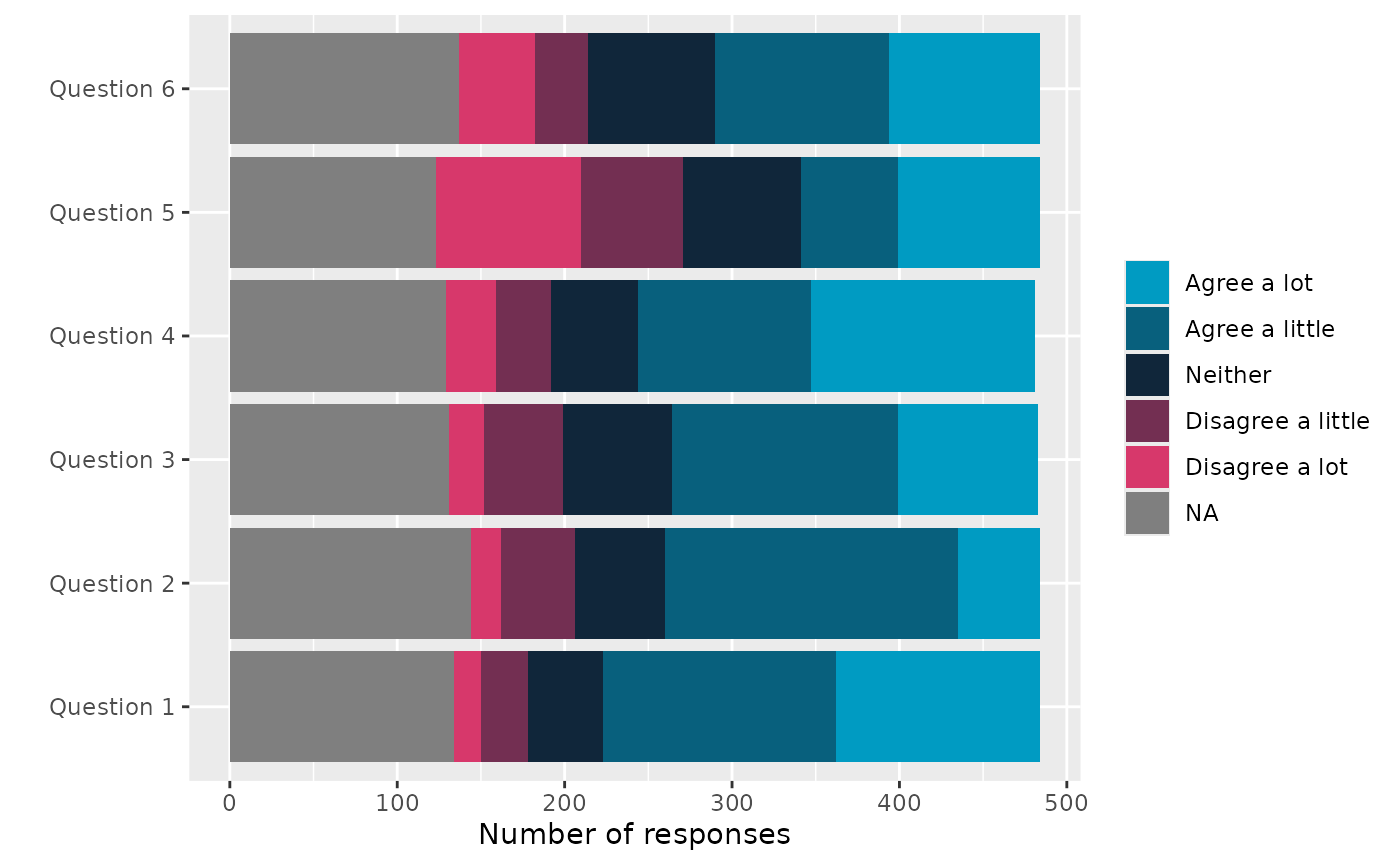
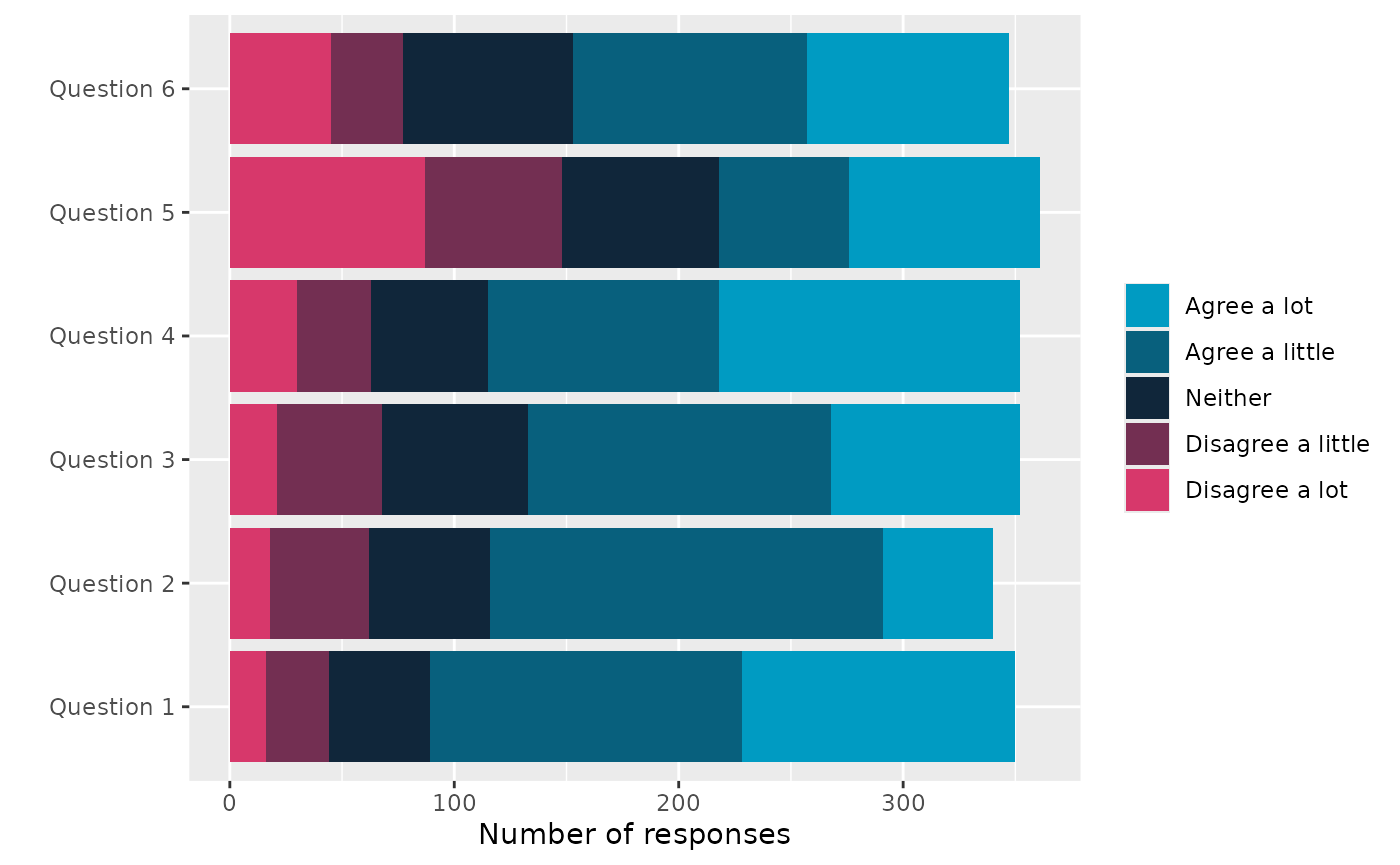
Deploying to gh-pages from @ Jake-Powell/OMESurvey@f03f40c4dfe7805c6880ab750420d0e18fba7e67 🚀

diff --git a/articles/Create-survey-figures.html b/articles/Create-survey-figures.html
@@ -76,13 +76,19 @@
 <p><em>This vignette provides examples for the simple creation of survey
 plots across different output types</em></p>
 <div class="sourceCode" id="cb2"><pre class="downlit sourceCode r">
-<code class="sourceCode R"><span><span class="va">data</span> <span class="op">=</span> <span class="fu">OMESurvey</span><span class="fu">::</span><span class="va"><a href="../reference/survey_example.html">survey_example</a></span></span></code></pre></div>
+<code class="sourceCode R"><span><span class="va">data</span> <span class="op">=</span> <span class="fu">OMESurvey</span><span class="fu">::</span><span class="va"><a href="../reference/survey_example.html">survey_example</a></span></span>
+<span></span>
+<span><span class="co"># Clean such that "N-A" values equal NA, fix any casing issues</span></span>
+<span><span class="kw">for</span><span class="op">(</span><span class="va">i</span> <span class="kw">in</span> <span class="fl">1</span><span class="op">:</span><span class="fu"><a href="https://rdrr.io/r/base/nrow.html" class="external-link">ncol</a></span><span class="op">(</span><span class="va">data</span><span class="op">)</span><span class="op">)</span><span class="op">{</span></span>
+<span>  <span class="va">data</span><span class="op">[</span>,<span class="va">i</span><span class="op">]</span><span class="op">[</span><span class="va">data</span><span class="op">[</span>,<span class="va">i</span><span class="op">]</span> <span class="op">==</span> <span class="st">'N-A'</span><span class="op">]</span> <span class="op">=</span> <span class="cn">NA</span></span>
+<span>  <span class="va">data</span><span class="op">[</span>,<span class="va">i</span><span class="op">]</span> <span class="op">=</span> <span class="va">data</span><span class="op">[</span>,<span class="va">i</span><span class="op">]</span> <span class="op">|&gt;</span> <span class="fu">stringr</span><span class="fu">::</span><span class="fu"><a href="https://stringr.tidyverse.org/reference/case.html" class="external-link">str_to_sentence</a></span><span class="op">(</span><span class="op">)</span> </span>
+<span><span class="op">}</span></span></code></pre></div>
 <div class="section level2">
 <h2 id="number-of-responses-across-questions-in-a-theme">Number of responses across questions in a theme<a class="anchor" aria-label="anchor" href="#number-of-responses-across-questions-in-a-theme"></a>
 </h2>
 <p>In this case we can use <code><a href="../reference/plot_theme.html">plot_theme()</a></code> to create a
 horizontal bar chart. Depending on the “Kind” argument we can create a
-formatted data frame, a ggplot or a plotly graph.</p>
+ggplot, a plotly figure or a formatted data frame.</p>
 <div class="section level3 tabset">
 <h3 class="tabset" id="section"></h3>
 
@@ -105,7 +111,7 @@ formatted data frame, a ggplot or a plotly graph.</p>
 <div class="sourceCode" id="cb4"><pre class="downlit sourceCode r">
 <code class="sourceCode R"><span><span class="fu">OMESurvey</span><span class="fu">::</span><span class="fu"><a href="../reference/plot_theme.html">plot_theme</a></span><span class="op">(</span><span class="va">data</span>, theme <span class="op">=</span> <span class="st">'Theme_1'</span>, kind <span class="op">=</span> <span class="st">'plotly'</span><span class="op">)</span></span></code></pre></div>
 <div class="plotly html-widget html-fill-item" id="htmlwidget-ac96cb3ee4656e2e9ec3" style="width:700px;height:432.632880098888px;"></div>
-<script type="application/json" data-for="htmlwidget-ac96cb3ee4656e2e9ec3">{"x":{"visdat":{"1865381057f2":["function () ","plotlyVisDat"]},"cur_data":"1865381057f2","attrs":{"1865381057f2":{"y":{},"x":{},"orientation":"h","hovertext":{},"hoverinfo":"text","color":{},"colors":["#009BC2","#08607D","#10263A","#732F52","#D7386B"],"alpha_stroke":1,"sizes":[10,100],"spans":[1,20],"type":"bar"}},"layout":{"margin":{"b":40,"l":60,"t":25,"r":10},"xaxis":{"domain":[0,1],"automargin":true,"title":"Number of responses"},"yaxis":{"domain":[0,1],"automargin":true,"title":"","type":"category","categoryorder":"array","categoryarray":["Question 1","Question 2","Question 3","Question 4","Question 5","Question 6"]},"barmode":"stack","hovermode":"closest","showlegend":true},"source":"A","config":{"modeBarButtonsToAdd":["hoverclosest","hovercompare"],"showSendToCloud":false},"data":[{"y":["Question 1","Question 2","Question 3","Question 4","Question 5","Question 6"],"x":[122,49,84,134,85,90],"orientation":"h","hovertext":["Agree a lot<br>122 Responses<br>25.2%","Agree a lot<br>49 Responses<br>10.1%","Agree a lot<br>84 Responses<br>17.4%","Agree a lot<br>134 Responses<br>27.9%","Agree a lot<br>85 Responses<br>17.6%","Agree a lot<br>90 Responses<br>18.6%"],"hoverinfo":["text","text","text","text","text","text"],"type":"bar","name":"Agree a lot","marker":{"color":"rgba(0,155,194,1)","line":{"color":"rgba(0,155,194,1)"}},"textfont":{"color":"rgba(0,155,194,1)"},"error_y":{"color":"rgba(0,155,194,1)"},"error_x":{"color":"rgba(0,155,194,1)"},"xaxis":"x","yaxis":"y","frame":null},{"y":["Question 1","Question 2","Question 3","Question 4","Question 5","Question 6"],"x":[139,175,135,103,58,104],"orientation":"h","hovertext":["Agree a little<br>139 Responses<br>28.7%","Agree a little<br>175 Responses<br>36.2%","Agree a little<br>135 Responses<br>28%","Agree a little<br>103 Responses<br>21.4%","Agree a little<br>58 Responses<br>12%","Agree a little<br>104 Responses<br>21.5%"],"hoverinfo":["text","text","text","text","text","text"],"type":"bar","name":"Agree a little","marker":{"color":"rgba(8,96,125,1)","line":{"color":"rgba(8,96,125,1)"}},"textfont":{"color":"rgba(8,96,125,1)"},"error_y":{"color":"rgba(8,96,125,1)"},"error_x":{"color":"rgba(8,96,125,1)"},"xaxis":"x","yaxis":"y","frame":null},{"y":["Question 1","Question 2","Question 3","Question 4","Question 5","Question 6"],"x":[45,54,65,52,70,76],"orientation":"h","hovertext":["Neither<br>45 Responses<br>9.3%","Neither<br>54 Responses<br>11.2%","Neither<br>65 Responses<br>13.5%","Neither<br>52 Responses<br>10.8%","Neither<br>70 Responses<br>14.5%","Neither<br>76 Responses<br>15.7%"],"hoverinfo":["text","text","text","text","text","text"],"type":"bar","name":"Neither","marker":{"color":"rgba(16,38,58,1)","line":{"color":"rgba(16,38,58,1)"}},"textfont":{"color":"rgba(16,38,58,1)"},"error_y":{"color":"rgba(16,38,58,1)"},"error_x":{"color":"rgba(16,38,58,1)"},"xaxis":"x","yaxis":"y","frame":null},{"y":["Question 1","Question 2","Question 3","Question 4","Question 5","Question 6"],"x":[28,44,47,33,61,32],"orientation":"h","hovertext":["Disagree a little<br>28 Responses<br>5.8%","Disagree a little<br>44 Responses<br>9.1%","Disagree a little<br>47 Responses<br>9.7%","Disagree a little<br>33 Responses<br>6.9%","Disagree a little<br>61 Responses<br>12.6%","Disagree a little<br>32 Responses<br>6.6%"],"hoverinfo":["text","text","text","text","text","text"],"type":"bar","name":"Disagree a little","marker":{"color":"rgba(115,47,82,1)","line":{"color":"rgba(115,47,82,1)"}},"textfont":{"color":"rgba(115,47,82,1)"},"error_y":{"color":"rgba(115,47,82,1)"},"error_x":{"color":"rgba(115,47,82,1)"},"xaxis":"x","yaxis":"y","frame":null},{"y":["Question 1","Question 2","Question 3","Question 4","Question 5","Question 6"],"x":[16,18,21,30,87,45],"orientation":"h","hovertext":["Disagree a lot<br>16 Responses<br>3.3%","Disagree a lot<br>18 Responses<br>3.7%","Disagree a lot<br>21 Responses<br>4.3%","Disagree a lot<br>30 Responses<br>6.2%","Disagree a lot<br>87 Responses<br>18%","Disagree a lot<br>45 Responses<br>9.3%"],"hoverinfo":["text","text","text","text","text","text"],"type":"bar","name":"Disagree a lot","marker":{"color":"rgba(215,56,107,1)","line":{"color":"rgba(215,56,107,1)"}},"textfont":{"color":"rgba(215,56,107,1)"},"error_y":{"color":"rgba(215,56,107,1)"},"error_x":{"color":"rgba(215,56,107,1)"},"xaxis":"x","yaxis":"y","frame":null}],"highlight":{"on":"plotly_click","persistent":false,"dynamic":false,"selectize":false,"opacityDim":0.20000000000000001,"selected":{"opacity":1},"debounce":0},"shinyEvents":["plotly_hover","plotly_click","plotly_selected","plotly_relayout","plotly_brushed","plotly_brushing","plotly_clickannotation","plotly_doubleclick","plotly_deselect","plotly_afterplot","plotly_sunburstclick"],"base_url":"https://plot.ly"},"evals":[],"jsHooks":[]}</script>
+<script type="application/json" data-for="htmlwidget-ac96cb3ee4656e2e9ec3">{"x":{"visdat":{"180e7d63edd2":["function () ","plotlyVisDat"]},"cur_data":"180e7d63edd2","attrs":{"180e7d63edd2":{"y":{},"x":{},"orientation":"h","hovertext":{},"hoverinfo":"text","color":{},"colors":["#009BC2","#08607D","#10263A","#732F52","#D7386B"],"alpha_stroke":1,"sizes":[10,100],"spans":[1,20],"type":"bar"}},"layout":{"margin":{"b":40,"l":60,"t":25,"r":10},"xaxis":{"domain":[0,1],"automargin":true,"title":"Number of responses"},"yaxis":{"domain":[0,1],"automargin":true,"title":"","type":"category","categoryorder":"array","categoryarray":["Question 1","Question 2","Question 3","Question 4","Question 5","Question 6"]},"barmode":"stack","hovermode":"closest","showlegend":true},"source":"A","config":{"modeBarButtonsToAdd":["hoverclosest","hovercompare"],"showSendToCloud":false},"data":[{"y":["Question 1","Question 2","Question 3","Question 4","Question 5","Question 6"],"x":[122,49,84,134,85,90],"orientation":"h","hovertext":["Agree a lot<br>122 Responses<br>34.9%","Agree a lot<br>49 Responses<br>14.4%","Agree a lot<br>84 Responses<br>23.9%","Agree a lot<br>134 Responses<br>38.1%","Agree a lot<br>85 Responses<br>23.5%","Agree a lot<br>90 Responses<br>25.9%"],"hoverinfo":["text","text","text","text","text","text"],"type":"bar","name":"Agree a lot","marker":{"color":"rgba(0,155,194,1)","line":{"color":"rgba(0,155,194,1)"}},"textfont":{"color":"rgba(0,155,194,1)"},"error_y":{"color":"rgba(0,155,194,1)"},"error_x":{"color":"rgba(0,155,194,1)"},"xaxis":"x","yaxis":"y","frame":null},{"y":["Question 1","Question 2","Question 3","Question 4","Question 5","Question 6"],"x":[139,175,135,103,58,104],"orientation":"h","hovertext":["Agree a little<br>139 Responses<br>39.7%","Agree a little<br>175 Responses<br>51.5%","Agree a little<br>135 Responses<br>38.4%","Agree a little<br>103 Responses<br>29.3%","Agree a little<br>58 Responses<br>16.1%","Agree a little<br>104 Responses<br>30%"],"hoverinfo":["text","text","text","text","text","text"],"type":"bar","name":"Agree a little","marker":{"color":"rgba(8,96,125,1)","line":{"color":"rgba(8,96,125,1)"}},"textfont":{"color":"rgba(8,96,125,1)"},"error_y":{"color":"rgba(8,96,125,1)"},"error_x":{"color":"rgba(8,96,125,1)"},"xaxis":"x","yaxis":"y","frame":null},{"y":["Question 1","Question 2","Question 3","Question 4","Question 5","Question 6"],"x":[45,54,65,52,70,76],"orientation":"h","hovertext":["Neither<br>45 Responses<br>12.9%","Neither<br>54 Responses<br>15.9%","Neither<br>65 Responses<br>18.5%","Neither<br>52 Responses<br>14.8%","Neither<br>70 Responses<br>19.4%","Neither<br>76 Responses<br>21.9%"],"hoverinfo":["text","text","text","text","text","text"],"type":"bar","name":"Neither","marker":{"color":"rgba(16,38,58,1)","line":{"color":"rgba(16,38,58,1)"}},"textfont":{"color":"rgba(16,38,58,1)"},"error_y":{"color":"rgba(16,38,58,1)"},"error_x":{"color":"rgba(16,38,58,1)"},"xaxis":"x","yaxis":"y","frame":null},{"y":["Question 1","Question 2","Question 3","Question 4","Question 5","Question 6"],"x":[28,44,47,33,61,32],"orientation":"h","hovertext":["Disagree a little<br>28 Responses<br>8%","Disagree a little<br>44 Responses<br>12.9%","Disagree a little<br>47 Responses<br>13.4%","Disagree a little<br>33 Responses<br>9.4%","Disagree a little<br>61 Responses<br>16.9%","Disagree a little<br>32 Responses<br>9.2%"],"hoverinfo":["text","text","text","text","text","text"],"type":"bar","name":"Disagree a little","marker":{"color":"rgba(115,47,82,1)","line":{"color":"rgba(115,47,82,1)"}},"textfont":{"color":"rgba(115,47,82,1)"},"error_y":{"color":"rgba(115,47,82,1)"},"error_x":{"color":"rgba(115,47,82,1)"},"xaxis":"x","yaxis":"y","frame":null},{"y":["Question 1","Question 2","Question 3","Question 4","Question 5","Question 6"],"x":[16,18,21,30,87,45],"orientation":"h","hovertext":["Disagree a lot<br>16 Responses<br>4.6%","Disagree a lot<br>18 Responses<br>5.3%","Disagree a lot<br>21 Responses<br>6%","Disagree a lot<br>30 Responses<br>8.5%","Disagree a lot<br>87 Responses<br>24.1%","Disagree a lot<br>45 Responses<br>13%"],"hoverinfo":["text","text","text","text","text","text"],"type":"bar","name":"Disagree a lot","marker":{"color":"rgba(215,56,107,1)","line":{"color":"rgba(215,56,107,1)"}},"textfont":{"color":"rgba(215,56,107,1)"},"error_y":{"color":"rgba(215,56,107,1)"},"error_x":{"color":"rgba(215,56,107,1)"},"xaxis":"x","yaxis":"y","frame":null}],"highlight":{"on":"plotly_click","persistent":false,"dynamic":false,"selectize":false,"opacityDim":0.20000000000000001,"selected":{"opacity":1},"debounce":0},"shinyEvents":["plotly_hover","plotly_click","plotly_selected","plotly_relayout","plotly_brushed","plotly_brushing","plotly_clickannotation","plotly_doubleclick","plotly_deselect","plotly_afterplot","plotly_sunburstclick"],"base_url":"https://plot.ly"},"evals":[],"jsHooks":[]}</script>
 </div>
 <div class="tab-pane" id="data-frame" role="tabpanel" aria-labelledby="data-frame-tab">
 
@@ -119,13 +125,20 @@ formatted data frame, a ggplot or a plotly graph.</p>
 <span>                                 paging<span class="op">=</span><span class="cn">FALSE</span>,</span>
 <span>                                 ordering<span class="op">=</span><span class="cn">F</span><span class="op">)</span><span class="op">)</span></span></code></pre></div>
 <div class="datatables html-widget html-fill-item" id="htmlwidget-e5c8c404fe174e4c81bd" style="width:100%;height:auto;"></div>
-<script type="application/json" data-for="htmlwidget-e5c8c404fe174e4c81bd">{"x":{"filter":"none","vertical":false,"extensions":["Buttons"],"data":[["Question 1","Question 1","Question 1","Question 1","Question 1","Question 1","Question 2","Question 2","Question 2","Question 2","Question 2","Question 2","Question 3","Question 3","Question 3","Question 3","Question 3","Question 3","Question 4","Question 4","Question 4","Question 4","Question 4","Question 4","Question 5","Question 5","Question 5","Question 5","Question 5","Question 5","Question 6","Question 6","Question 6","Question 6","Question 6","Question 6"],["Agree a little","Agree a lot","Disagree a little","Disagree a lot",null,"Neither","Agree a little","Agree a lot","Disagree a little","Disagree a lot",null,"Neither","Agree a little","Agree a lot","Disagree a little","Disagree a lot",null,"Neither","Agree a little","Agree a lot","Disagree a little","Disagree a lot",null,"Neither","Agree a little","Agree a lot","Disagree a little","Disagree a lot",null,"Neither","Agree a little","Agree a lot","Disagree a little","Disagree a lot",null,"Neither"],[139,122,28,16,134,45,175,49,44,18,144,54,135,84,47,21,131,65,103,134,33,30,129,52,58,85,61,87,123,70,104,90,32,45,137,76],[28.71900826446281,25.20661157024793,5.785123966942149,3.305785123966942,27.68595041322314,9.297520661157025,36.15702479338843,10.12396694214876,9.090909090909092,3.71900826446281,29.75206611570248,11.15702479338843,27.95031055900621,17.39130434782609,9.730848861283643,4.347826086956522,27.12215320910973,13.45755693581781,21.41372141372142,27.85862785862786,6.860706860706861,6.237006237006238,26.81912681912682,10.81081081081081,11.98347107438017,17.56198347107438,12.60330578512397,17.97520661157025,25.41322314049587,14.46280991735537,21.48760330578513,18.59504132231405,6.611570247933884,9.297520661157025,28.30578512396694,15.70247933884298]],"container":"<table class=\"display\">\n  <thead>\n    <tr>\n      <th>question<\/th>\n      <th>answer<\/th>\n      <th>count<\/th>\n      <th>percent<\/th>\n    <\/tr>\n  <\/thead>\n<\/table>","options":{"scrollY":300,"dom":"Bt","buttons":["copy","csv","excel","pdf"],"paging":false,"ordering":false,"columnDefs":[{"className":"dt-right","targets":[2,3]},{"name":"question","targets":0},{"name":"answer","targets":1},{"name":"count","targets":2},{"name":"percent","targets":3}],"order":[],"autoWidth":false,"orderClasses":false}},"evals":[],"jsHooks":[]}</script>
+<script type="application/json" data-for="htmlwidget-e5c8c404fe174e4c81bd">{"x":{"filter":"none","vertical":false,"extensions":["Buttons"],"data":[["Question 1","Question 1","Question 1","Question 1","Question 1","Question 2","Question 2","Question 2","Question 2","Question 2","Question 3","Question 3","Question 3","Question 3","Question 3","Question 4","Question 4","Question 4","Question 4","Question 4","Question 5","Question 5","Question 5","Question 5","Question 5","Question 6","Question 6","Question 6","Question 6","Question 6"],["Agree a little","Agree a lot","Disagree a little","Disagree a lot","Neither","Agree a little","Agree a lot","Disagree a little","Disagree a lot","Neither","Agree a little","Agree a lot","Disagree a little","Disagree a lot","Neither","Agree a little","Agree a lot","Disagree a little","Disagree a lot","Neither","Agree a little","Agree a lot","Disagree a little","Disagree a lot","Neither","Agree a little","Agree a lot","Disagree a little","Disagree a lot","Neither"],[139,122,28,16,45,175,49,44,18,54,135,84,47,21,65,103,134,33,30,52,58,85,61,87,70,104,90,32,45,76],[39.71428571428572,34.85714285714286,8,4.571428571428571,12.85714285714286,51.47058823529412,14.41176470588235,12.94117647058824,5.294117647058823,15.88235294117647,38.35227272727273,23.86363636363636,13.35227272727273,5.965909090909091,18.46590909090909,29.26136363636364,38.06818181818182,9.375,8.522727272727272,14.77272727272727,16.06648199445983,23.54570637119114,16.89750692520776,24.09972299168975,19.39058171745152,29.97118155619597,25.93659942363112,9.221902017291066,12.96829971181556,21.90201729106628]],"container":"<table class=\"display\">\n  <thead>\n    <tr>\n      <th>question<\/th>\n      <th>answer<\/th>\n      <th>count<\/th>\n      <th>percent<\/th>\n    <\/tr>\n  <\/thead>\n<\/table>","options":{"scrollY":300,"dom":"Bt","buttons":["copy","csv","excel","pdf"],"paging":false,"ordering":false,"columnDefs":[{"className":"dt-right","targets":[2,3]},{"name":"question","targets":0},{"name":"answer","targets":1},{"name":"count","targets":2},{"name":"percent","targets":3}],"order":[],"autoWidth":false,"orderClasses":false}},"evals":[],"jsHooks":[]}</script>
 </div>
 </div>
 </div>
 <div class="section level3 unnumbered">
 <h3 class="unnumbered" id="section-1"></h3>
-<hr>
+<p>Note that here we use default
+<code>survey_values = OMESurvey::survey_values</code> is used to find
+the expected values of the survey questions and the order to show the
+answers in the legend. For custom survey values you can change the
+<code>survey_values</code>. The function uses colours from
+<code><a href="../reference/get_OME_colours.html">OMESurvey::get_OME_colours()</a></code>, if other colours are desired
+use ‘+’/‘|&gt;’ to pipe further arguments to the ggplot/plotly objects,
+or you can create your own plot from the data frame output. ***</p>
 </div>
 </div>
   </main><aside class="col-md-3"><nav id="toc" aria-label="Table of contents"><h2>On this page</h2>
